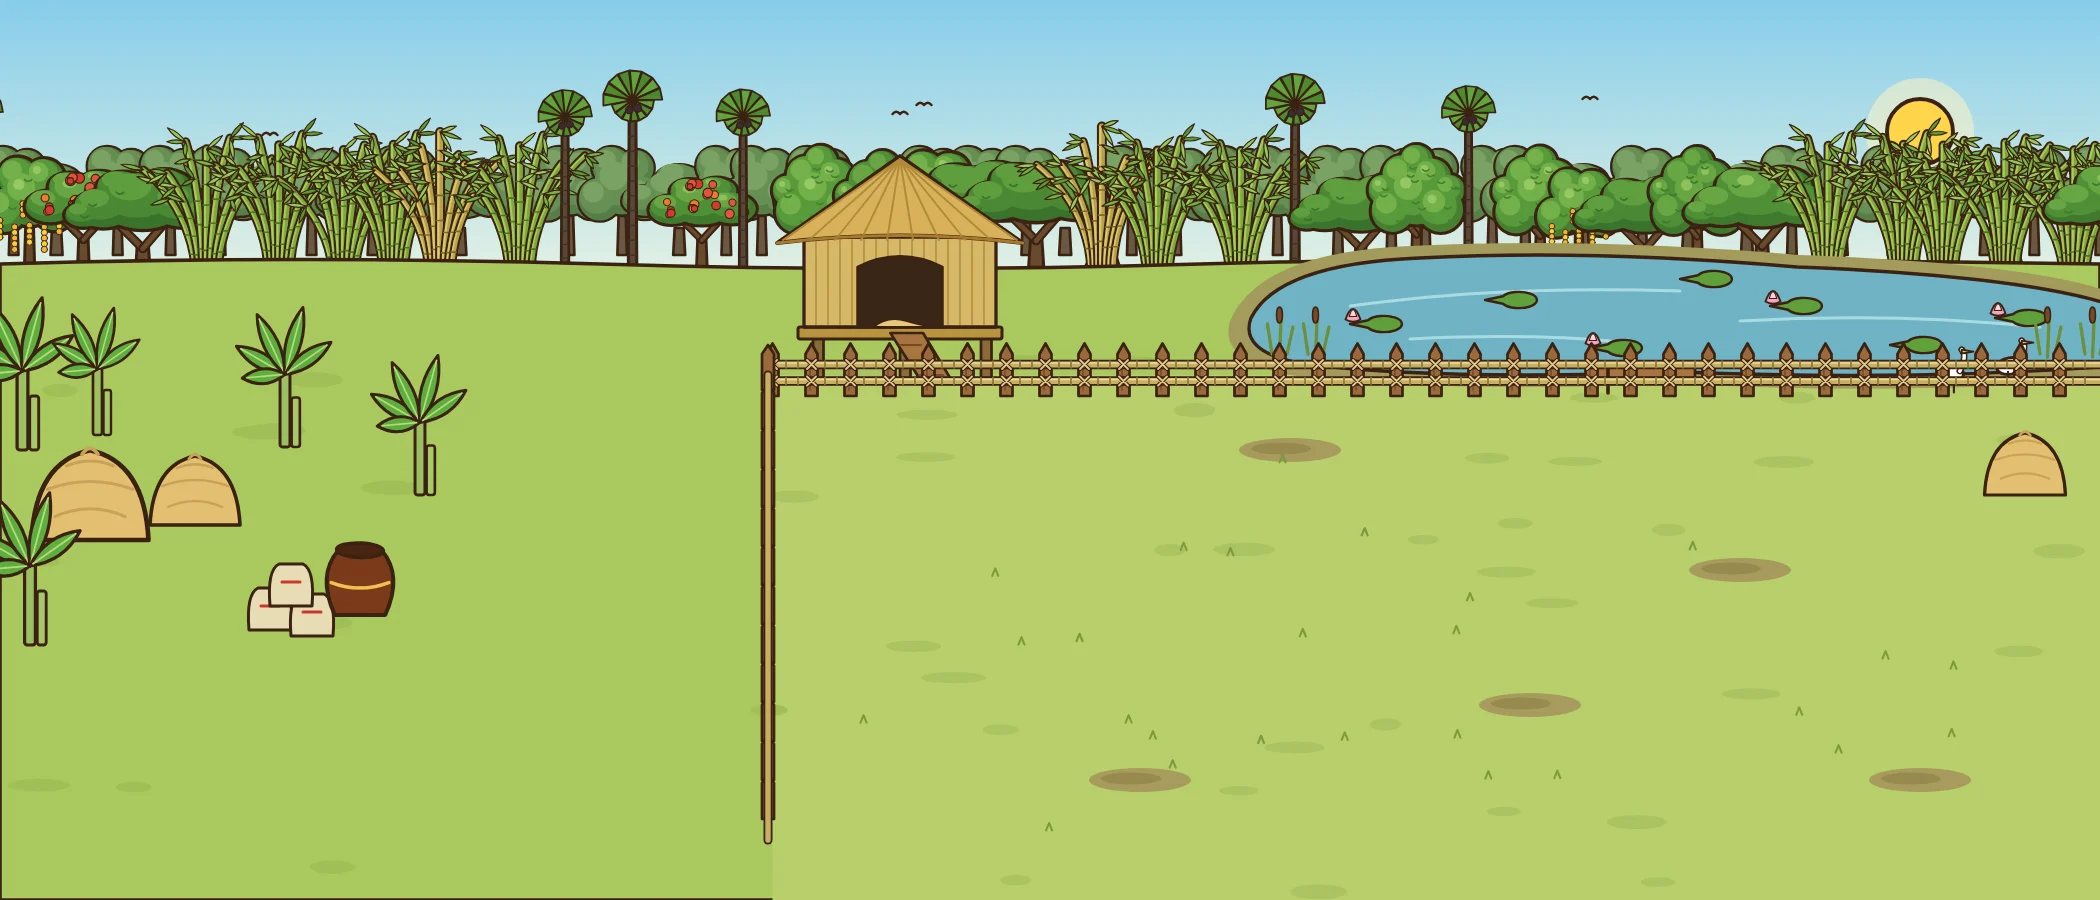
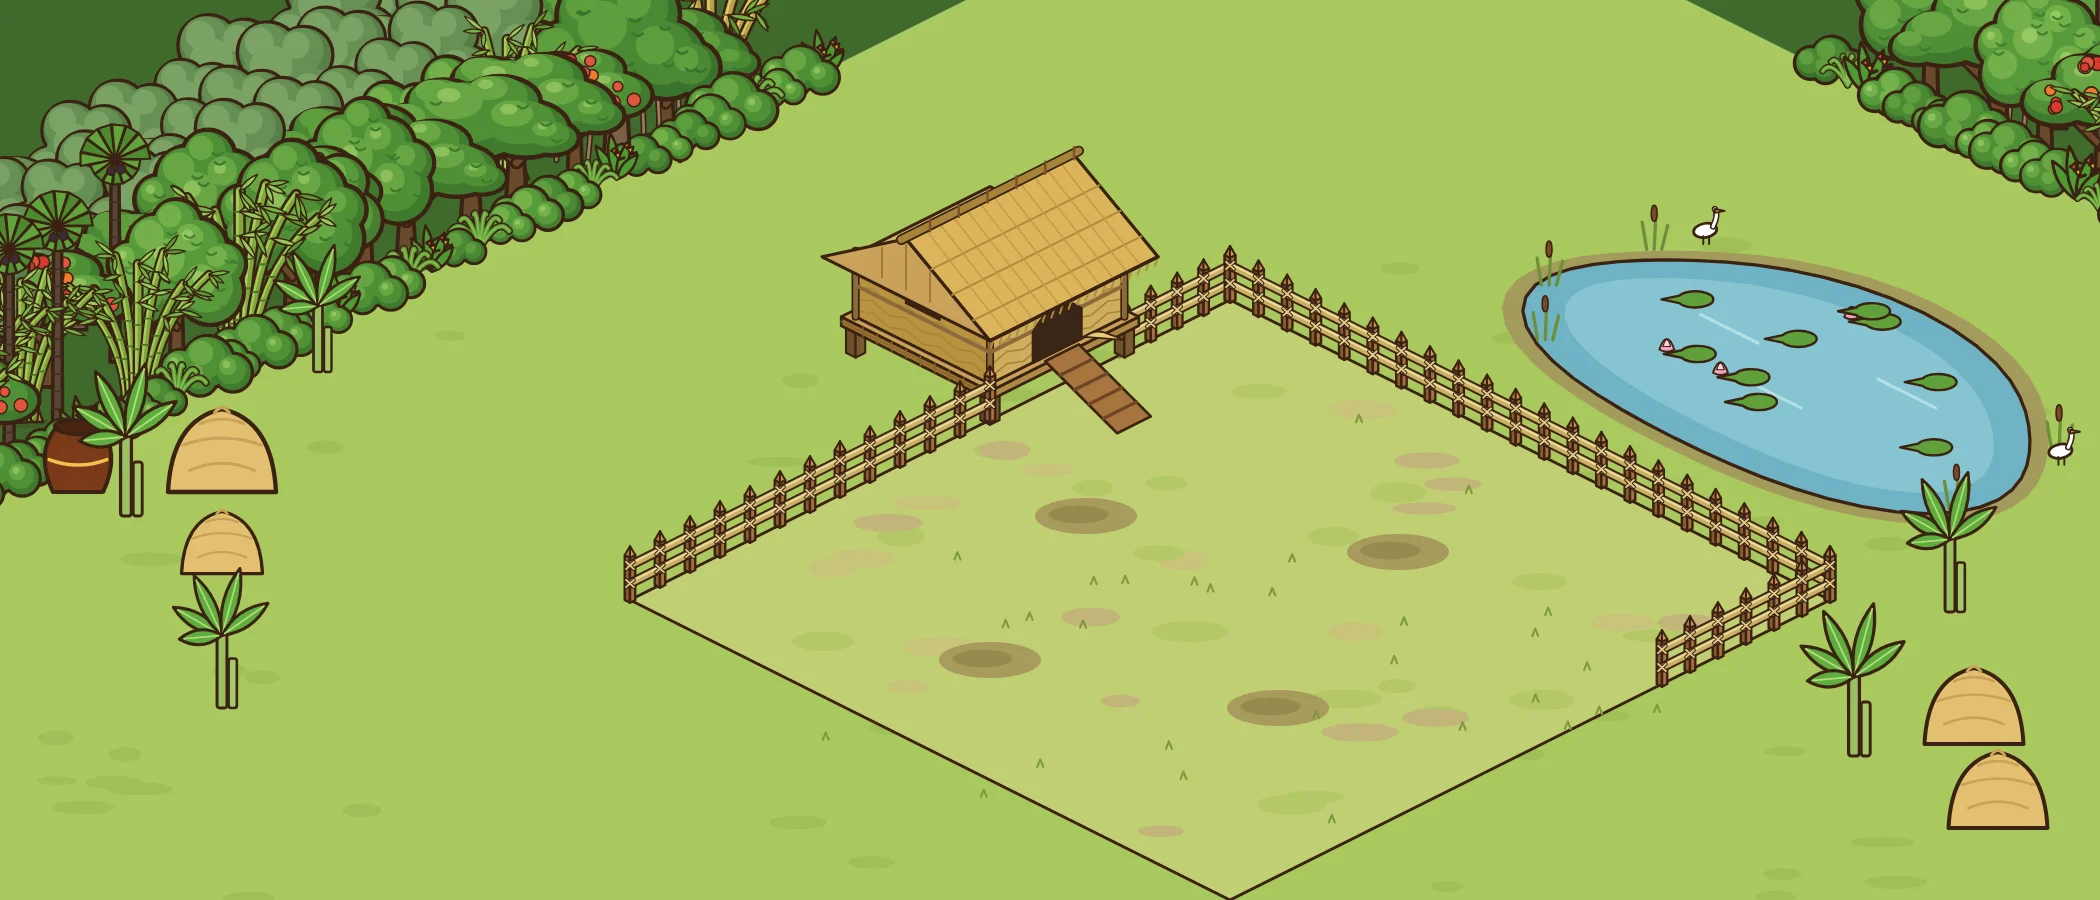
Duck pen: back to the isometric pen
Restore the isometric pen background (duck house built into the fence,
lotus pond, forest edge) together with its nest spot, duck spots and
manifest prompt. The market stays a front-view interior. Uncle Mee's
shop button sits under him on the left, and his board opens on the right.

Claude-Session: https://claude.ai/code/session_01SuEzVnLzSy81bsDqDqTwQG

diff --git a/js/ui/render.js b/js/ui/render.js
@@ -57,8 +57,8 @@ function renderFarm() {
 const TROUGH = { at: [445, 472], inner: [58, 14] };
 
 // The nest shows up to 10 eggs as a pile; past 10 (and past 20) a darker "shadow" pile peeks out behind it.
-// The nest sits on the straw patch in the front-view pen, right of Uncle Mee.
-const NEST = [300, 312];
+// The nest sits inside the pen's fence (the u = 0 fence runs diagonally past its left side).
+const NEST = [450, 332];
 const NEST_PILE = [NEST[0], NEST[1] - 10];
 const NEST_BACK = [[-9, -7], [9, -7]];
 
@@ -139,7 +139,7 @@ function renderPen() {
 
 // Ducks as [ground y, svg] items so they sort with the nest, trough and basket. A negative animation delay taken
 // from the clock keeps each duck's walk continuous when the pen re-renders.
-const DUCK_SPOTS = [[600, 300, 11], [420, 395, 14], [665, 362, 10], [560, 408, 13], [262, 425, 15]];   // clear of the nest, trough and basket
+const DUCK_SPOTS = [[600, 300, 11], [300, 365, 14], [665, 362, 10], [560, 408, 13], [305, 425, 15]];   // clear of the nest, trough and basket
 function penDucks() {
   const t = performance.now() / 1000;
   return DUCK_SPOTS.slice(0, S.ducks).map(([x, y, dur], i) =>

diff --git a/css/style.css b/css/style.css
@@ -118,7 +118,7 @@ button small{display:block;font-family:'Sarabun',sans-serif;font-size:9.5px;font
 .money-now{margin-left:auto;font-size:15px;color:#2f7a2f}
 .shop-board.mee{left:auto;right:8px;width:430px}
 .shop-board.mee .supplies{grid-template-columns:1fr}
-.shop-open.mee{left:560px;top:70px;background:#8fd3ef}
+.shop-open.mee{left:14px;top:392px;background:#8fd3ef}
 .shop-board.daeng{left:auto;right:8px;width:520px}
 .place{cursor:pointer}
 g.place:hover{filter:brightness(1.1) drop-shadow(0 0 6px #fff5a0)}

diff --git a/README.md b/README.md
@@ -4,7 +4,7 @@ A small browser farming game set in the central Thai countryside. It remakes the
 
 **Play:** open `index.html` in a browser, straight from disk or from any static server. There is no build step: the scripts are plain `<script>` tags, not ES modules, so `file://` works. The art is SVG asset files (with code-drawn fallbacks), and the only external asset is Google Fonts (Kanit and Sarabun).
 
-- The farm and the village map are isometric; the places you go inside (the market stall and the duck pen) are front view. The farm's signpost opens the village map (free); tapping a place on it walks there (5 energy). The temple and the neighbours' houses are marked "soon". 4 fields × 12 plots. Tools: water, fertilize, spray, clear and pick. Pick a ripe plot to carry the produce, then click the ox cart (เกวียน) to sell it.
+- The farm, the village map and the duck pen are isometric; the market stall is a front-view interior. The farm's signpost opens the village map (free); tapping a place on it walks there (5 energy). The temple and the neighbours' houses are marked "soon". 4 fields × 12 plots. Tools: water, fertilize, spray, clear and pick. Pick a ripe plot to carry the produce, then click the ox cart (เกวียน) to sell it.
 - The market has two sellers: Auntie Daeng (ป้าแดง) sells seeds, fertilizer and bug spray; Uncle Mee (ลุงมี) sells ducks and feed at his duck pen. New sellers are added in `SELLERS` (js/ui/shop.js).
 - Rain chance follows the Thai seasons. Day 1 is 1 January, and the game ends after day 365.
 - Autosaves to `localStorage` (one slot). The WebAudio luk thung / pong lang loop has a mute toggle.
